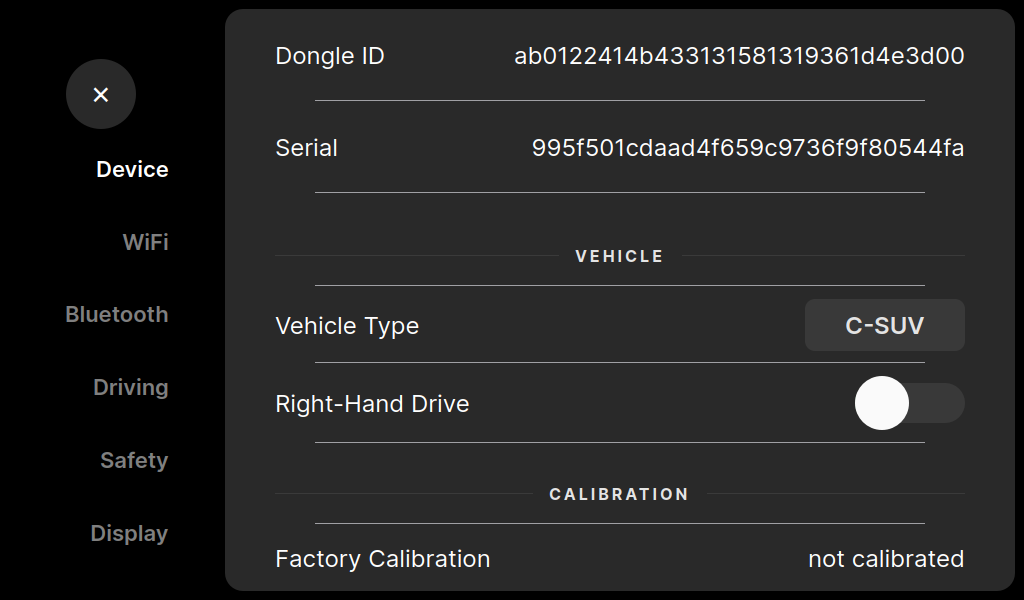
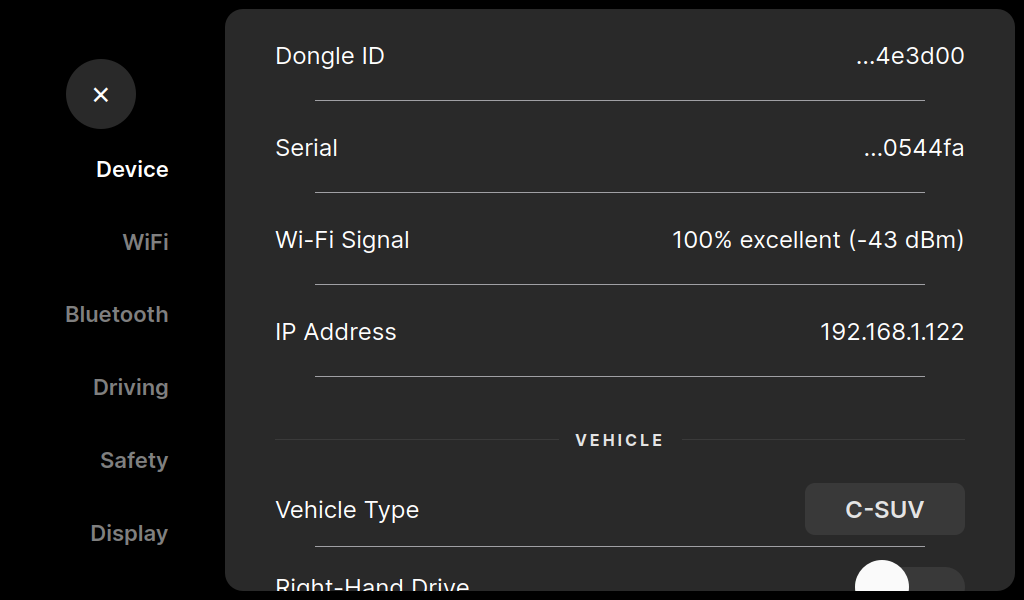
ui(01m): Device shows IP and Wi-Fi signal, short IDs; keyboard eye fits (4.4c)
Dongle ID and Serial show their last 6 characters. Device lists the
IP address and Wi-Fi signal (from the dBm level; this card's link
quality column is not a 0-70 scale), refreshed while the page is open.
The password eye button was 55x42 with 81x54 icons and clipped them.
Tracker: dropping the EOP param prefix recorded as its own step.

diff --git a/selfdrive/ui/qt/offroad/settings.cc b/selfdrive/ui/qt/offroad/settings.cc
@@ -4,7 +4,11 @@
 #include <tuple>
 #include <vector>
 
+#include <algorithm>
+
 #include <QDateTime>
+#include <QFile>
+#include <QNetworkInterface>
 #include <QDebug>
 #include <QEvent>
 
@@ -104,12 +108,24 @@ void TogglesPanel::updateToggles() {
 
 DevicePanel::DevicePanel(SettingsWindow *parent) : ListWidget(parent) {
   setSpacing(50);
-  auto dongle = new LabelControl(tr("Dongle ID"), getDongleId().value_or(tr("N/A")));
+  // Only the last 6 characters: enough to tell devices apart on screen.
+  auto tail6 = [](const QString &id) { return id.size() > 6 ? QString::fromUtf8("…") + id.right(6) : id; };
+  auto dongle = new LabelControl(tr("Dongle ID"), tail6(getDongleId().value_or(tr("N/A"))),
+      tr("This device's identity for logs and uploads."));
   // 8 quick taps anywhere on this row reveal the Advanced page.
   dongle->installEventFilter(this);
   for (auto *child : dongle->findChildren<QWidget *>()) child->installEventFilter(this);
   addItem(dongle);
-  addItem(new LabelControl(tr("Serial"), params.get("HardwareSerial").c_str()));
+  addItem(new LabelControl(tr("Serial"), tail6(QString::fromStdString(params.get("HardwareSerial"))),
+      tr("The board's hardware serial number.")));
+
+  // Network: refreshed every 2 s while the page is open.
+  wifiLbl = new LabelControl(tr("Wi-Fi Signal"), "");
+  ipLbl = new LabelControl(tr("IP Address"), "");
+  addItem(wifiLbl);
+  addItem(ipLbl);
+  net_timer = new QTimer(this);
+  connect(net_timer, &QTimer::timeout, this, &DevicePanel::updateNetworkInfo);
 
   // Vehicle (type, RHD) and calibration status
   addItem(new EopPanel(parent, EopPanel::DEVICE_VEHICLE));
@@ -222,6 +238,49 @@ bool DevicePanel::eventFilter(QObject *obj, QEvent *event) {
     }
   }
   return ListWidget::eventFilter(obj, event);
+}
+
+void DevicePanel::showEvent(QShowEvent *event) {
+  updateNetworkInfo();
+  net_timer->start(2000);
+  ListWidget::showEvent(event);
+}
+
+void DevicePanel::hideEvent(QHideEvent *event) {
+  net_timer->stop();
+  ListWidget::hideEvent(event);
+}
+
+void DevicePanel::updateNetworkInfo() {
+  // IPv4 of the first interface that is up: Wi-Fi first, then Ethernet.
+  QString ip;
+  for (const QString &name : {QString("wlan0"), QString("eth0")}) {
+    const QNetworkInterface iface = QNetworkInterface::interfaceFromName(name);
+    if (!iface.isValid() || !(iface.flags() & QNetworkInterface::IsUp)) continue;
+    for (const QNetworkAddressEntry &e : iface.addressEntries()) {
+      if (e.ip().protocol() == QAbstractSocket::IPv4Protocol) { ip = e.ip().toString(); break; }
+    }
+    if (!ip.isEmpty()) break;
+  }
+  ipLbl->setText(ip.isEmpty() ? tr("not connected") : ip);
+
+  // /proc/net/wireless: "wlan0: 0000   5.  -44.  -91. ..." (link, level dBm, noise).
+  // The RTL8822CE's "link" column is not a 0-70 quality, so use the level:
+  // -100 dBm -> 0 %, -50 dBm or better -> 100 %.
+  QString signal = tr("not connected");
+  QFile f("/proc/net/wireless");
+  if (f.open(QIODevice::ReadOnly | QIODevice::Text)) {
+    for (const QString &line : QString(f.readAll()).split('\n')) {
+      const QStringList cols = line.simplified().split(' ');
+      if (cols.size() >= 4 && cols[0] == "wlan0:") {
+        const int dbm = int(cols[3].toFloat());
+        const int quality = std::clamp(2 * (dbm + 100), 0, 100);
+        const QString word = quality >= 70 ? tr("excellent") : quality >= 50 ? tr("good") : quality >= 30 ? tr("fair") : tr("weak");
+        signal = tr("%1% %2 (%3 dBm)").arg(quality).arg(word).arg(dbm);
+      }
+    }
+  }
+  wifiLbl->setText(signal);
 }
 
 // Offline maps: OSM extracts for Valhalla routing and the onroad map.

diff --git a/selfdrive/ui/qt/widgets/input.cc b/selfdrive/ui/qt/widgets/input.cc
@@ -117,15 +117,17 @@ InputDialog::InputDialog(const QString &title, QWidget *parent, const QString &s
   if (secret) {
     eye_btn = new QPushButton();
     eye_btn->setCheckable(true);
-    eye_btn->setFixedSize(55, 42);
+    // sized for 1024x600 (comma's 81x54 icons overflowed a 55x42 button)
+    eye_btn->setFixedSize(64, 44);
+    eye_btn->setStyleSheet("QPushButton { border: none; background: transparent; padding: 0; }");
     QObject::connect(eye_btn, &QPushButton::toggled, [=](bool checked) {
       if (checked) {
         eye_btn->setIcon(QIcon(ASSET_PATH + "icons/eye_closed.svg"));
-        eye_btn->setIconSize(QSize(81, 54));
+        eye_btn->setIconSize(QSize(54, 36));
         line->setEchoMode(QLineEdit::Password);
       } else {
         eye_btn->setIcon(QIcon(ASSET_PATH + "icons/eye_open.svg"));
-        eye_btn->setIconSize(QSize(81, 44));
+        eye_btn->setIconSize(QSize(54, 30));
         line->setEchoMode(QLineEdit::Normal);
       }
     });

diff --git a/selfdrive/ui/qt/offroad/settings.h b/selfdrive/ui/qt/offroad/settings.h
@@ -8,6 +8,7 @@
 #include <QLabel>
 #include <QPushButton>
 #include <QStackedWidget>
+#include <QTimer>
 #include <QWidget>
 
 #include "selfdrive/ui/ui.h"
@@ -62,11 +63,17 @@ private slots:
 private:
   void addOfflineMaps();
   void updateMapStatus();
+  void updateNetworkInfo();
+  void showEvent(QShowEvent *event) override;
+  void hideEvent(QHideEvent *event) override;
 
   Params params;
   ButtonControl *resetCalibBtn;
   ButtonControl *mapRegionBtn = nullptr;
   ButtonControl *mapDownloadBtn = nullptr;
+  LabelControl *ipLbl = nullptr;
+  LabelControl *wifiLbl = nullptr;
+  QTimer *net_timer = nullptr;
   int dongle_taps = 0;
   qint64 last_tap_ms = 0;
 };

diff --git a/docs/eop/REFACTOR_CLEANUP_TASKS.md b/docs/eop/REFACTOR_CLEANUP_TASKS.md
@@ -125,6 +125,12 @@ Order: what the driver sees first, the new screens last. Each step must build (`
   - **Bugs found and fixed:** software CHECK sent SIGUSR1 to `system.updated.updated`; the updater runs as `system.updated` and handles only SIGHUP (SIGUSR1 would kill it). CHECK showed disabled when the updater had not started. Hide HUD wrote `EOPUIHideHudSpeedKph`, but `ui.cc` reads `ngp_ui_hide_hud_speed_kph`.
   - **Open: settings that nothing reads** (grep of selfdrive, system, exopilot, the onroad UI and ../exopilot, 2026-11-12). These rows save but change nothing: `EOPALCCBrakeMode`, `EOPLatLCASpeed`, `EOPLatRoadEdgeDetection` (its `ngp_lat_road_edge_detection` twin is unread too), `EOPLonExtRadar`, `EOPDeviceAudibleAlertMode`, `EOPDeviceBeep`, `EOPDeviceAutoShutdownIn` (and `ngp_device_shutdown_minutes`), `EOPRecordEnabled`, `EOPNavBleEnabled`, `EOPUIDisplayMode`, `EOPUIRadarTracks`, `EOPUIRainbow`; Advanced: `EOPMonoD*`, `EOPSGM*`, `EOPPointcloudMaxGB`, `EOPMultiCameraCalibEnabled`. Owner to decide per row: wire it, or hide it until it is.
   - **Open: offline map download backend.** The Device rows record `EOPMapDownloadRequest`/`EOPMapRegion`; nothing consumes them yet (`tile_auto_manager.py` is not run by any process). Done with 4.9.
+- [ ] 4.4c Owner follow-ups (2026-11-12):
+  - [x] **Device identity rows show only the last 6 characters** of Dongle ID and Serial. (Dongle ID: the device's identity for logs/uploads, created at registration. Serial: the board's hardware serial. Both kept; the Dongle ID row keeps the 8-tap unlock.)
+  - [x] **Device shows the IP address and Wi-Fi signal strength** (refreshed every 2 s while the page is open; percent from the dBm level, -100 -> 0 %, -50 -> 100 %, because the RTL8822CE's link-quality column is not 0-70).
+  - [x] **Keyboard eye icon clipped:** the button was 55x42 with icons drawn at 81x54 (comma's 1080p sizes); now 64x44 with 54x36/54x30 icons.
+  - **Advanced page is long** (8 groups). Trim it with the unread-settings decision above.
+  - **Drop the `EOP` prefix from param names (owner: "no prefix at all").** 307 `EOP*` keys in `params_keys.h`, used in ~122 files across openpilot and exopilot, plus docs and `exopilot/docs/NAMING_CONVENTIONS.md`. Needs: one rename table, a one-time migration at manager start that copies each saved `EOPx` value to `x` (users keep their settings), collision check against existing unprefixed keys (e.g. upstream's), all branches (NGP10's shared `ngp_` keys stay). Own step, after the owner confirms scope (params only, or class/file names like `EopPanel`, `eop_utils` too).
 - [ ] 4.5 EOP panel, onboarding
 - [ ] 4.6 Onroad restyle: HUD, alerts, chrome bar, warnings
 - [ ] 4.7 Side/rear overlays, blind spot, BEV
@@ -172,5 +178,6 @@ Order: what the driver sees first, the new screens last. Each step must build (`
 | 2026-11-11 | R.6 | one name ExoPilot on NGP10/EOP10/01M/02M/EDP10; proper rebase chain, duplicates dropped |
 | 2026-11-11 | 4.4 | settings controls: five theme styles, segmented choices on their own line; built and checked on :0 |
 | 2026-11-11 | 4.4b, 4.9 | owner requests recorded: no Software/Developer pages, Update + offline maps on Device, no Experimental mode (Drive Mode Highway/Urban/Dynamic), old names, keyboard check; proposed nav order; swipe map view |
+| 2026-11-12 | 4.4c | short IDs, IP + Wi-Fi signal on Device, keyboard eye sized; prefix rename recorded, scope to confirm |
 | 2026-11-12 | 4.4b | settings restructure built and checked on :0; Drive Mode (EOPDlonMode) + personality quick button; updater signal and Hide HUD key bugs fixed; unread-settings audit recorded |
 | 2026-11-09 | 4.1, 4.2 | 4.1 done (no app-wide sheet: it boxed every label); 4.2 sidebar palette + BLE pairing key bug; built and checked on :0 |
